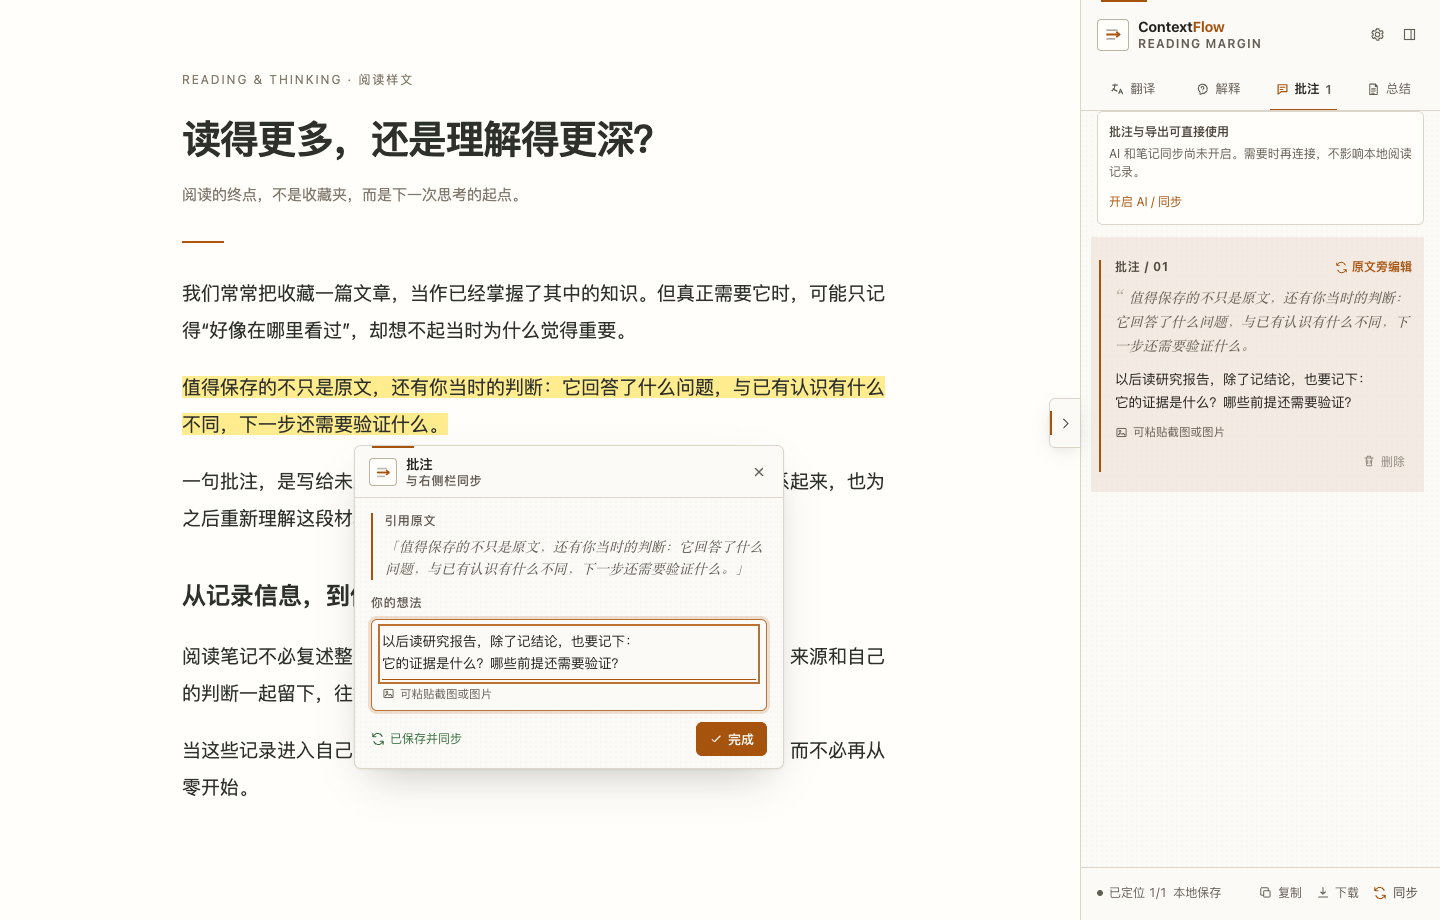
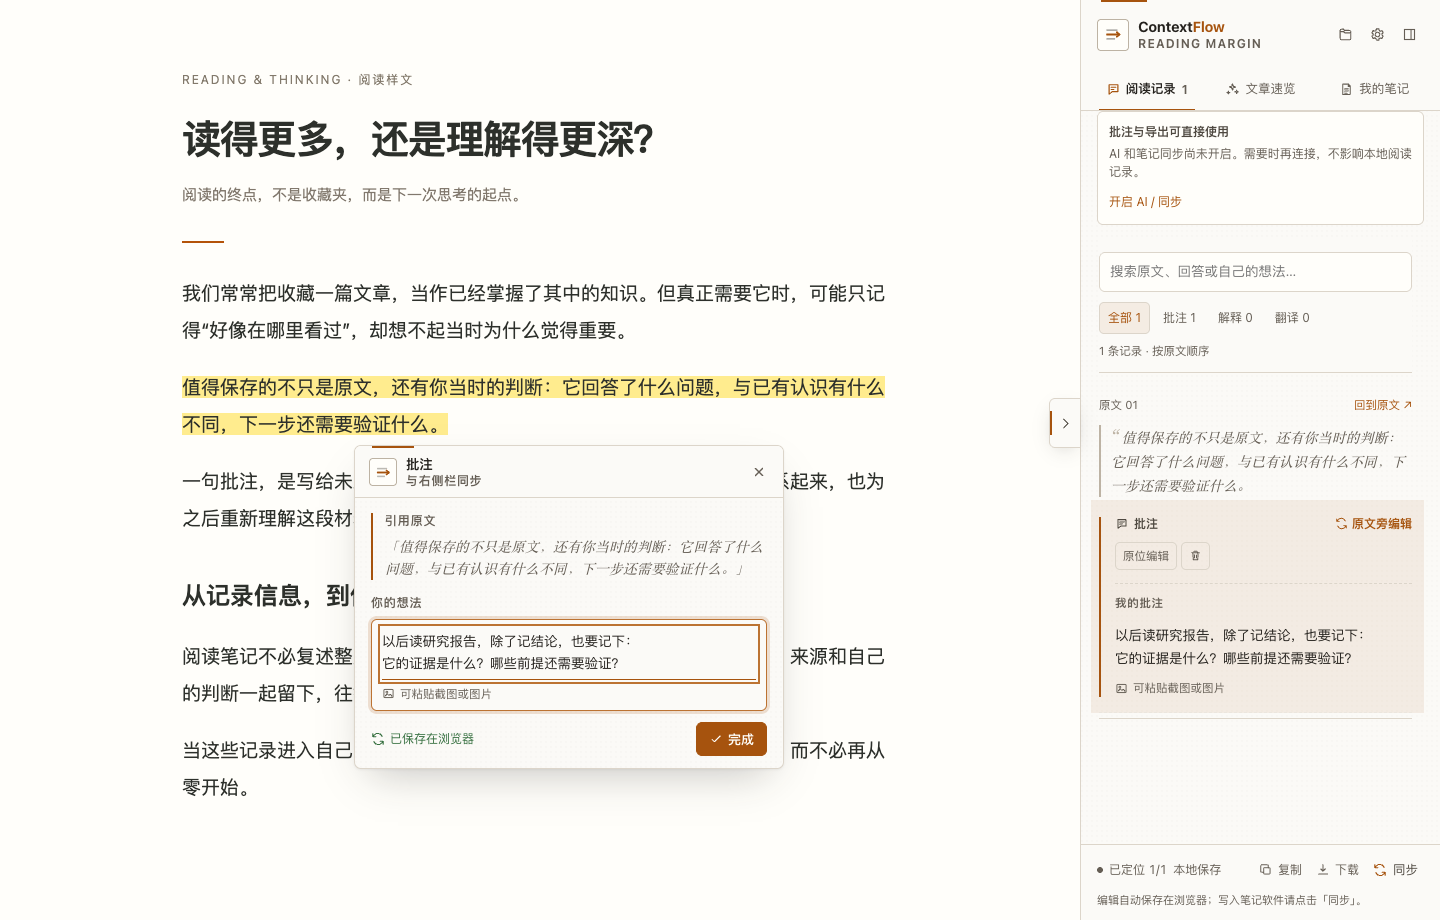
docs: publish ContextFlow product website

diff --git a/index.html b/index.html
@@ -36,6 +36,7 @@
           <p class="lead">在网页原文旁写批注、贴截图、继续追问。<br class="desktop-break">把原文、思考和来源，一起带回自己的笔记。</p>
           <div class="actions"><a class="button" href="https://chromewebstore.google.com/detail/contextflow/aemncphfnlpbhlddifhohpgegejjejfm">从 Chrome 商店安装 <span aria-hidden="true">↗</span></a><a class="text-link" href="#experience">看看它如何工作 <span aria-hidden="true">↓</span></a></div>
           <p class="micro">免费开源 · 无需注册 · 批注与导出无需配置 AI</p>
+          <p class="micro release-notice">商店当前 v0.3.2 · 下方展示 1.0 实际界面，商店 1.0 更新尚未提交。<a href="https://github.com/PengheLiu/ContextFlow/releases/tag/v1.0.0">查看 1.0 发行说明 →</a></p>
         </div>
       </div>
       <figure class="product-figure">
@@ -43,7 +44,7 @@
           <div class="browser-bar" aria-hidden="true"><span class="browser-dots"><i></i><i></i><i></i></span><span>网页原文 + 你的阅读工作台</span><span class="browser-label">CONTEXTFLOW</span></div>
           <img class="product-shot" src="assets/inline-annotation.png" alt="真实操作界面：选中网页原文后就地写批注，同一条批注同时出现在右侧阅读记录中" width="1440" height="920" fetchpriority="high">
         </div>
-        <figcaption><span><span class="status-dot" aria-hidden="true"></span>原文旁直接写，侧栏同步收录。</span><span>实际界面 · v0.3.2 截图 / 原创阅读样文</span></figcaption>
+        <figcaption><span><span class="status-dot" aria-hidden="true"></span>原文旁直接写，侧栏同步收录。</span><span>实际界面 · v1.0.0 截图 / 原创阅读样文</span></figcaption>
       </figure>
       <div class="destinations"><p>让阅读回到你已经在用的工具里</p><div><span>Markdown</span><span>Obsidian</span><span>思源笔记</span></div></div>
     </section>
@@ -63,12 +64,18 @@
 
 <span class="md-muted">原文链接：文章的来源地址</span>
 
+<span class="md-heading">## 速览</span>
+- 文章要点（主动生成后收录）
+
 <span class="md-heading">## 批注</span>
-- 原文：值得保存的不只是原文……
-  - 我的想法：它改变了我对什么的判断？
+- &gt; 值得保存的不只是原文……
+- 💬 它改变了我对什么的判断？
 
 <span class="md-heading">## 解释</span>
 - 问题、回答，以及我自己的补充。
+
+<span class="md-heading">## 翻译</span>
+- 原文与翻译结果。
 
 <span class="md-heading">## 总结</span>
 - 下次阅读，可以从这里继续。</code></pre><span class="example-caption">内容示意 · 按实际记录生成</span></div>
@@ -82,7 +89,7 @@
     </section>
     <section class="setup-section container section-space" aria-labelledby="setup-title">
       <div class="setup-intro"><p class="eyebrow">跟随你的工作方式</p><h2 id="setup-title">从基础到进阶，<br>只开启你需要的。</h2><p>扩展免费开源，不捆绑模型订阅。<br>配置留在你自己的工具里。</p><a class="text-link" href="https://github.com/PengheLiu/ContextFlow/blob/main/docs/GETTING_STARTED.md">完整安装与使用指南 <span aria-hidden="true">↗</span></a></div>
-      <div class="capabilities" role="list" aria-label="功能与配置要求"><div class="capability" role="listitem"><span class="capability-dot" aria-hidden="true">✓</span><div><h3>高亮、批注与 Markdown 导出</h3><p>安装即用，无需本地服务或 AI 配置。</p></div><span class="capability-tag">基础能力</span></div><div class="capability" role="listitem"><span class="capability-dot" aria-hidden="true">↗</span><div><h3>同步到自己的笔记</h3><p>本地服务 + 保存位置；只同步笔记无需配置 AI。</p></div><span class="capability-tag">可选</span></div><div class="capability" role="listitem"><span class="capability-dot" aria-hidden="true">↗</span><div><h3>AI 解释、翻译与速览</h3><p>本地服务 + 自己的模型或 agent；模型费用另计。</p></div><span class="capability-tag">可选</span></div><div class="setup-footnote">本地服务需要 Node.js 22.13+，目前通过终端安装和启动。无需下载扩展 ZIP；需要服务时，按扩展连接页和指南操作。</div></div>
+      <div class="capabilities" role="list" aria-label="功能与配置要求"><div class="capability" role="listitem"><span class="capability-dot" aria-hidden="true">✓</span><div><h3>高亮、批注与 Markdown 导出</h3><p>安装即用，无需本地服务或 AI 配置。</p></div><span class="capability-tag">基础能力</span></div><div class="capability" role="listitem"><span class="capability-dot" aria-hidden="true">✓</span><div><h3>阅读库、备份与诊断</h3><p>1.0 新增。跨文章找回与预览，完整 JSON 备份限 32 MB，可确认补充恢复。</p></div><span class="capability-tag">基础能力</span></div><div class="capability" role="listitem"><span class="capability-dot" aria-hidden="true">↗</span><div><h3>同步到自己的笔记</h3><p>本地服务 + 保存位置；只同步笔记无需配置 AI。</p></div><span class="capability-tag">可选</span></div><div class="capability" role="listitem"><span class="capability-dot" aria-hidden="true">↗</span><div><h3>AI 解释、翻译与速览</h3><p>本地服务 + 自己的 LLM 或 Agent；翻译需配置 LLM。模型费用另计。</p></div><span class="capability-tag">可选</span></div><div class="setup-footnote">本地服务需要 Node.js 22.13+，目前通过终端安装和启动。无需下载扩展 ZIP；需要服务时，按扩展连接页和指南操作。</div></div>
     </section>
     <section class="ownership-section container" aria-labelledby="ownership-title"><div class="ownership-mark" aria-hidden="true">↗</div><div><p class="eyebrow">你的数据，你的边界</p><h2 id="ownership-title">一份能带走的记录，<br>一套由你决定的工具。</h2></div><div class="ownership-copy"><p>阅读记录保存在扩展私有空间，不需要创建阅读云账号。笔记同步到你选择的位置，不另建一个封闭收藏库。</p><p>本地优先不代表 AI 全部离线。使用 AI 时，文章、问题和授权笔记可能发送给你配置的服务。建议定期导出或同步备份。</p><a class="text-link" href="privacy.html">了解数据处理与隐私 <span aria-hidden="true">↗</span></a></div></section>
     <section class="faq-section container section-space" id="faq" aria-labelledby="faq-title">
@@ -90,10 +97,10 @@
       <div class="faq-list">
         <details><summary>需要付费、注册账号，或先配置 AI 吗？<span aria-hidden="true">+</span></summary><div class="faq-answer"><p>扩展免费开源，无需注册。高亮、原位批注、粘贴图片和 Markdown 导出不要求 Node.js、API key 或本地服务。AI 使用你自己的模型或 agent，相关费用与数据处理由所选服务决定，ContextFlow 不提供内置模型额度。</p></div></details>
         <details><summary>安装后没有出现工具条，怎么办？<span aria-hidden="true">+</span></summary><div class="faq-answer"><p>先刷新安装前已打开的文章，确认 ContextFlow 已启用，并允许在当前网站运行。然后拖选一句正文。可以用<a href="demo.html">练习文章</a>完成第一条批注；练习页需要安装扩展，并非免安装演示。只想使用批注时，可暂时关闭连接服务的选项页。</p></div></details>
-        <details><summary>哪些页面可以使用？支持 PDF 和手机吗？<span aria-hidden="true">+</span></summary><div class="faq-answer"><p>目前支持桌面 Chrome / Chromium 111+ 中的普通 HTTP/HTTPS 网页。Chrome 内部页面、Chrome 商店、内置 PDF 阅读器和未经授权的文件页面暂不支持；论文可优先使用 HTML 正文。手机可浏览本官网与指南，但不作为当前扩展的支持环境。</p></div></details>
+        <details><summary>哪些页面可以使用？支持 PDF 和手机吗？<span aria-hidden="true">+</span></summary><div class="faq-answer"><p>目前支持桌面 Chrome / Chromium 111+ 中的普通 HTTP/HTTPS 网页。Chrome 内部页面、Chrome 商店、内置 PDF 阅读器和本地文件页面暂不支持；论文可优先使用 HTML 正文。手机可浏览本官网与指南，但不作为当前扩展的支持环境。</p></div></details>
         <details><summary>为什么 AI 和笔记同步需要本地服务？<span aria-hidden="true">+</span></summary><div class="faq-answer"><p>本地服务负责连接你选择的模型、运行本地 agent，以及写入自己的笔记目录。需要 Node.js 22.13+。下载 companion 服务包，解压后先进入包含 <code>package.json</code> 的目录，再执行连接页提供的完整命令。不要在主目录直接运行 <code>npm ci</code>。macOS 提供常驻服务脚本，其他系统的自动安装尚未完成实机验收。</p><p><a href="https://github.com/PengheLiu/ContextFlow/blob/main/docs/GETTING_STARTED.md#开启-ai-和笔记同步">按完整指南配置本地服务 →</a></p></div></details>
         <details><summary>记录会自动保存吗？卸载后还在吗？<span aria-hidden="true">+</span></summary><div class="faq-answer"><p>浏览器内输入自动保存，写入笔记软件则需要点击「同步」。卸载扩展会清除扩展内记录，不会删除已导出的 Markdown 或已同步笔记。网页改版可能影响高亮定位，但已有记录仍可导出。请定期导出或同步备份。</p></div></details>
-        <details><summary>官网截图和实际安装界面为什么有差别？<span aria-hidden="true">+</span></summary><div class="faq-answer"><p>这里使用 v0.3.2 的真实截图，图文为原创样文与示例批注。高亮、原位批注、侧栏同步与 Markdown 导出已在 v0.3.1 提供。v0.3.2 的首次连接和同页配置改进已提交审核，是否已上架请以 Chrome 商店版本为准。GitHub 发行包可能先于商店更新公开。</p><p><a href="https://github.com/PengheLiu/ContextFlow/releases">查看版本与发行记录 →</a></p></div></details>
+        <details><summary>官网截图和实际安装界面为什么有差别？<span aria-hidden="true">+</span></summary><div class="faq-answer"><p>这里使用 v1.0.0 的真实截图，图文为原创样文与示例批注。1.0 包含阅读工作台、跨文章阅读库、备份恢复与脱敏诊断；商店 1.0 更新尚未提交，现有商店版本仍可安装。请以扩展详情中的实际版本选择匹配的服务包，不要为了更新卸载扩展。</p><p><a href="https://github.com/PengheLiu/ContextFlow/releases">查看版本与发行记录 →</a></p></div></details>
       </div>
     </section>
     <section class="closing container" aria-labelledby="closing-title"><p class="eyebrow">让下一次理解，不必从零开始</p><h2 id="closing-title">从下一句让你停下来的话开始。</h2><div class="actions"><a class="button" href="https://chromewebstore.google.com/detail/contextflow/aemncphfnlpbhlddifhohpgegejjejfm">开始使用 ContextFlow <span aria-hidden="true">↗</span></a><a class="text-link" href="demo.html">打开练习文章 <span aria-hidden="true">→</span></a></div></section>

diff --git a/privacy.html b/privacy.html
@@ -8,9 +8,9 @@
   <style>body{max-width:800px;margin:40px auto;padding:0 24px;font:16px/1.8 system-ui,sans-serif;color:#252b24;background:#fffef9}h1,h2{line-height:1.4}a{color:#365f28}code{overflow-wrap:anywhere}li{margin:8px 0}</style>
 </head>
 <body>
-  <nav aria-label="页面导航"><a href="./">← 返回 ContextFlow 官网</a></nav>
+  <nav aria-label="页面导航"><a href="https://pengheliu.github.io/ContextFlow/">← 返回 ContextFlow 官网</a></nav>
   <h1>ContextFlow 隐私政策</h1>
-  <p>更新日期：2026年10月17日。适用于包含扩展私有存储和独立配对功能的 Chrome 扩展版本。</p>
+  <p>更新日期：2026年10月20日。适用于包含扩展私有存储和独立配对功能的 Chrome 扩展版本；新增阅读库与备份功能随对应扩展版本提供。</p>
   <h2>用途与处理的数据</h2>
   <p>ContextFlow 帮助你在网页阅读时保存高亮、批注、问题、翻译和总结，并将记录同步到你自己的笔记库。它会处理正在使用功能的网页 URL、标题、选区、正文、图片、批注、问题和 AI 回答。配置同步或本地 agent 后，还可能处理你选择的笔记路径及授权范围内的笔记内容。</p>
   <p>扩展在普通 HTTP/HTTPS 网页上运行以恢复已有批注，并提供阅读界面。AI、笔记同步和 agent 能力通过你自己的本地服务执行；不提供由开发者集中收集阅读记录的云端账号服务。</p>
@@ -20,8 +20,12 @@
     <li>站点偏好和配对凭证保存在扩展本机存储，不使用 Chrome 同步存储。配对凭证仅供受信任的扩展上下文使用。</li>
     <li>本地服务的数据库、模型配置、API key 和 agent 配置保存在你电脑上的 ContextFlow 配置目录；同步输出保存在你选择的笔记目录或笔记服务。</li>
   </ul>
+  <h2>阅读库与备份</h2>
+  <p>支持阅读库的版本可在扩展自己的页面中检索已保存在此扩展内的跨网站阅读记录，不需要账号或本地服务。完整阅读库和备份恢复接口不向普通网页开放，也不会为此读取浏览器历史或新增标签访问权限。</p>
+  <p>你可主动生成包含有效记录、历史回答及引用图片的 JSON 备份，或下载单篇 Markdown。备份不包含模型配置、API key、配对码、缓存网页全文或只存在于本地服务的记录；备份文件可读且未加密，保存和分享由你控制。恢复前会校验并展示内容，确认后只补充缺失记录，不覆盖现有内容或已删除记录，也不重启未完成的 AI 任务。恢复的记录在阅读页面按原有规则保存到已连接的本地服务，写入笔记软件仍需主动同步。</p>
   <h2>何时数据会离开电脑</h2>
-  <p>“本地优先”不等于所有 AI 请求离线执行。使用翻译、解释、总结或本地 agent 时，相关网页内容、问题、对话以及授权读取的笔记可能发送到你配置的模型、网关、agent 或 MCP 服务。展开阅读面板可能触发文章速览。是否调用外部服务及其处理方式取决于你的配置。</p>
+  <p>“本地优先”不等于所有 AI 请求离线执行。使用翻译、解释、总结或本地 agent 时，相关网页内容、问题、对话以及授权读取的笔记可能发送到你配置的模型、网关、agent 或 MCP 服务。1.0 起打开或恢复侧栏只读取已有结果，主动生成或重试才会发送文章内容；部分旧版本可能在展开时生成速览。主动点击连接测试时只发送固定短消息，不发送文章或笔记。是否调用外部服务及其处理方式取决于所装版本及你的配置。</p>
+  <p>你可以主动在「帮助与诊断」检查本地服务健康状态和扩展存储计数，不会调用 AI 或上传报告。诊断报告仅包含版本、连接状态、能力与记录 / 图片 / 待发送操作数量，不包含文章、网址、笔记、密钥、配对码、模型地址、文件路径或完整日志。你可预览全部内容后自行决定是否复制并发送给维护者。</p>
   <p>这些服务按其自身条款和隐私政策处理数据。请在启用前确认其数据保留、训练使用和地域等安排，避免向不合适的服务发送机密资料。外部模型接口应配置 HTTPS；扩展到本机服务使用经过配对认证的回环 HTTP 连接。</p>
   <h2>本地 agent 与授权</h2>
   <p>笔记读取目录由你明确选择。本地 agent 默认使用受限配置；开启高级完整权限前需要单独确认风险。完整权限可能允许文件写入、命令执行、网络访问及 MCP 操作，网页或笔记中的不可信指令可能影响 agent 行为。</p>
